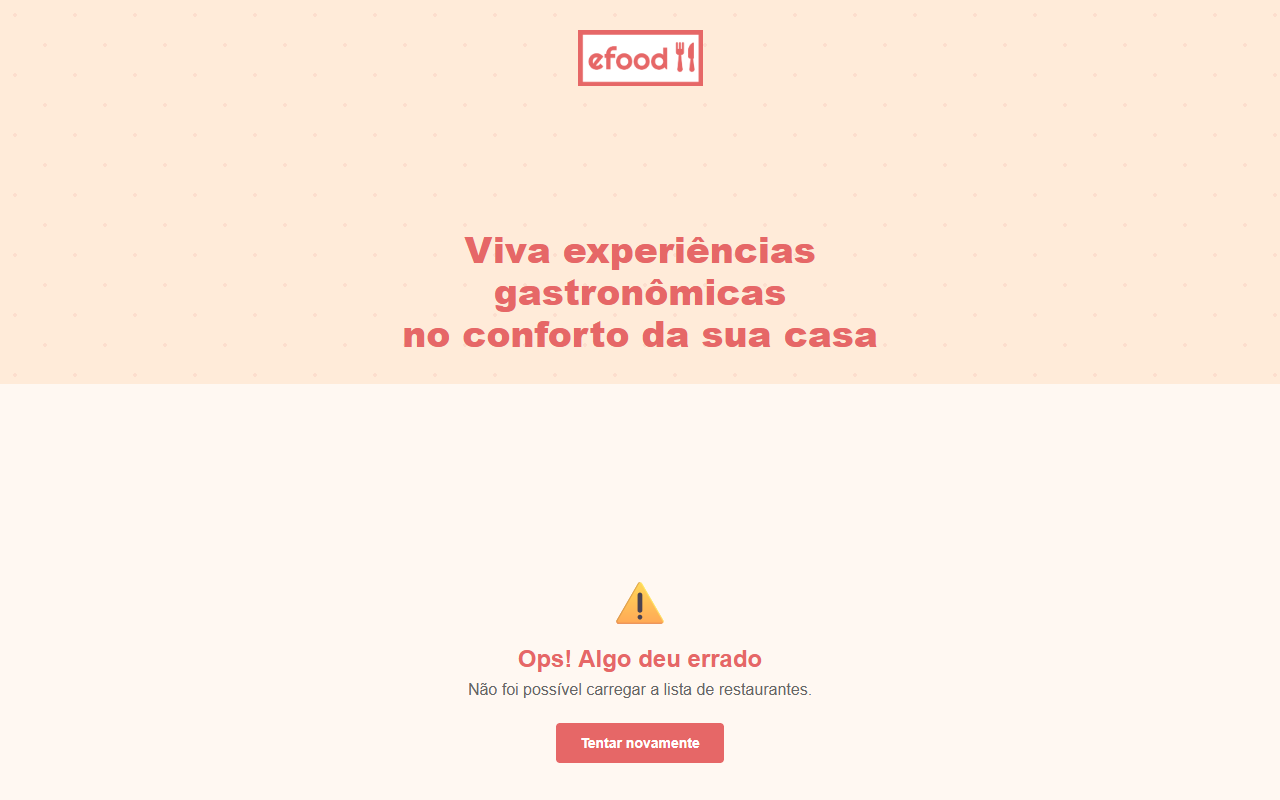
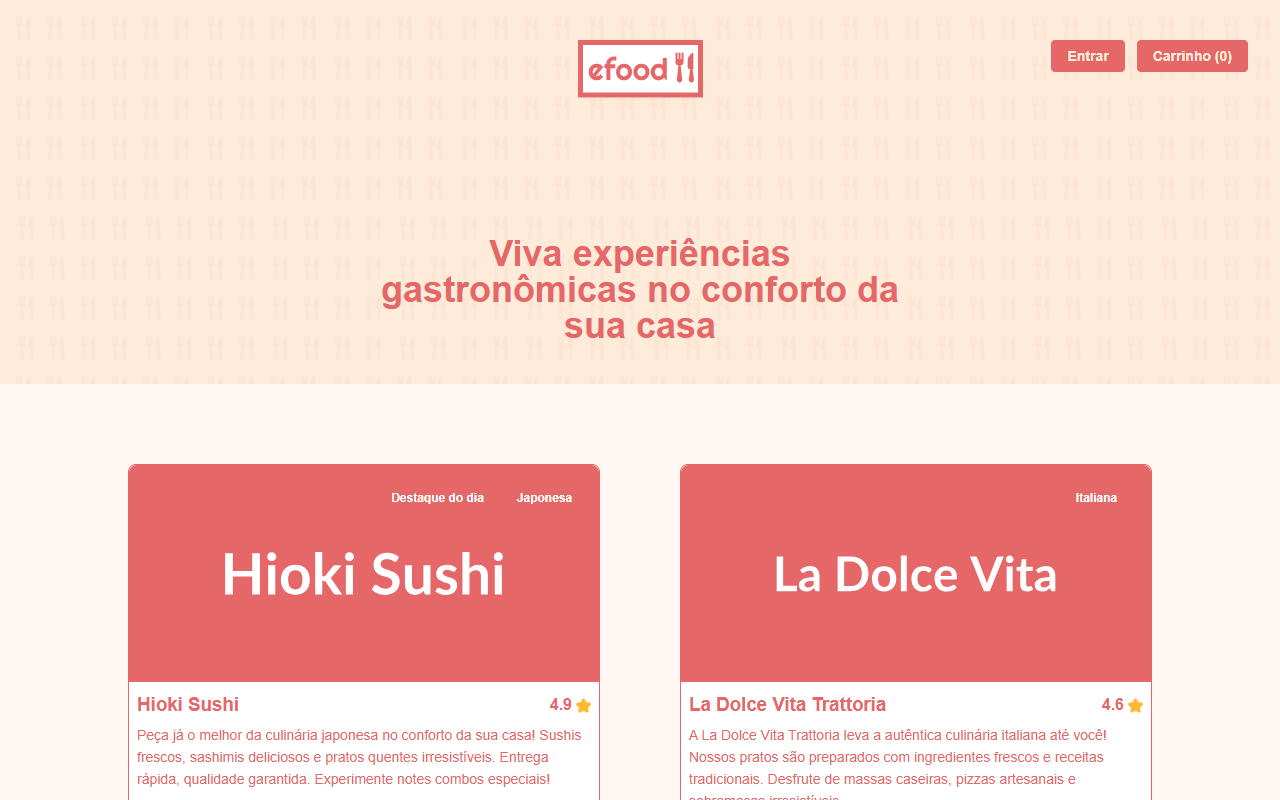
rev branchs, README.md e producao

diff --git a/scripts/capture-screenshots.js b/scripts/capture-screenshots.js
@@ -1,60 +1,59 @@
-const puppeteer = require("puppeteer");
-const path = require("path");
+/* eslint-disable @typescript-eslint/no-var-requires, @typescript-eslint/no-empty-function */
+const puppeteer = require('puppeteer')
+const path = require('path')
 
-const LIVE_URL = "https://efood-parte-2.vercel.app";
-const OUTPUT_DIR = path.join(__dirname, "..", "docs");
+const LIVE_URL = process.env.CAPTURE_URL || 'http://localhost:3000'
+const OUTPUT_DIR = path.join(__dirname, '..', 'docs')
 
 async function capture() {
   const browser = await puppeteer.launch({
-    headless: "new",
+    headless: 'new',
     defaultViewport: { width: 1280, height: 800 },
-  });
+  })
 
-  const page = await browser.newPage();
+  const page = await browser.newPage()
 
   // 1. Home — Lista de Restaurantes
-  console.log("📸 Capturando Home...");
-  await page.goto(LIVE_URL, { waitUntil: "networkidle2", timeout: 30000 });
+  console.log('📸 Capturando Home...')
+  await page.goto(LIVE_URL, { waitUntil: 'networkidle2', timeout: 30000 })
   await page.screenshot({
-    path: path.join(OUTPUT_DIR, "screenshot-home.png"),
+    path: path.join(OUTPUT_DIR, 'screenshot-home.png'),
     fullPage: false,
-  });
-  console.log("   ✅ Home salva");
+  })
+  console.log('   ✅ Home salva')
 
   // 2. Perfil — Cardápio do Restaurante (clica no primeiro restaurante)
-  console.log("📸 Capturando Perfil...");
+  console.log('📸 Capturando Perfil...')
   await page.evaluate(() => {
-    const link = document.querySelector('a[href*="perfil"]');
-    if (link) link.click();
-  });
-  await page
-    .waitForNavigation({ waitUntil: "networkidle2", timeout: 15000 })
-    .catch(() => {});
-  await new Promise((r) => setTimeout(r, 2000));
+    const link = document.querySelector('a[href*="perfil"]')
+    if (link) link.click()
+  })
+  await page.waitForNavigation({ waitUntil: 'networkidle2', timeout: 15000 }).catch(() => {})
+  await new Promise((r) => setTimeout(r, 2000))
   await page.screenshot({
-    path: path.join(OUTPUT_DIR, "screenshot-perfil.png"),
+    path: path.join(OUTPUT_DIR, 'screenshot-perfil.png'),
     fullPage: false,
-  });
-  console.log("   ✅ Perfil salva");
+  })
+  console.log('   ✅ Perfil salva')
 
   // 3. Modal — Detalhe do produto (clica no primeiro botão "Adicionar ao carrinho")
-  console.log("📸 Capturando Modal do Produto...");
+  console.log('📸 Capturando Modal do Produto...')
   await page.evaluate(() => {
-    const btn = document.querySelector("button");
-    if (btn) btn.click();
-  });
-  await new Promise((r) => setTimeout(r, 1500));
+    const btn = document.querySelector('button')
+    if (btn) btn.click()
+  })
+  await new Promise((r) => setTimeout(r, 1500))
   await page.screenshot({
-    path: path.join(OUTPUT_DIR, "screenshot-checkout.png"),
+    path: path.join(OUTPUT_DIR, 'screenshot-checkout.png'),
     fullPage: false,
-  });
-  console.log("   ✅ Modal/Checkout salva");
+  })
+  console.log('   ✅ Modal/Checkout salva')
 
-  await browser.close();
-  console.log("\n🎉 Screenshots salvas em /docs/");
+  await browser.close()
+  console.log('\n🎉 Screenshots salvas em /docs/')
 }
 
 capture().catch((err) => {
-  console.error("Erro:", err.message);
-  process.exit(1);
-});
+  console.error('Erro:', err.message)
+  process.exit(1)
+})

diff --git a/src/services/supabaseData.ts b/src/services/supabaseData.ts
@@ -2,7 +2,7 @@
 import { supabase } from './supabase'
 import { mockRestaurants } from './mockData'
 
-export const getRestaurantById = async (id: number) => {
+export const getRestaurantById = async (id: number): Promise<SupabaseRestaurant> => {
   try {
     const { data, error } = await supabase
       .from('restaurants')
@@ -59,7 +59,7 @@ export const getRestaurants = async (): Promise<SupabaseRestaurant[]> => {
 
 // ==================== FAVORITOS ====================
 
-export const getFavorites = async (userId: string) => {
+export const getFavorites = async (userId: string): Promise<number[]> => {
   const { data, error } = await supabase
     .from('favorites')
     .select('restaurant_id')
@@ -69,7 +69,7 @@ export const getFavorites = async (userId: string) => {
   return data.map(f => f.restaurant_id)
 }
 
-export const toggleFavorite = async (userId: string, restaurantId: number) => {
+export const toggleFavorite = async (userId: string, restaurantId: number): Promise<boolean> => {
   const { data: existing } = await supabase
     .from('favorites')
     .select('id')
@@ -116,7 +116,7 @@ export const addReview = async (
   restaurantId: number,
   rating: number,
   comment: string
-) => {
+): Promise<Review> => {
   const { data, error } = await supabase
     .from('reviews')
     .insert({
@@ -163,7 +163,7 @@ export const saveOrder = async (
   items: { nome: string; quantidade: number; preco: number }[],
   total: number,
   deliveryAddress: string
-) => {
+): Promise<void> => {
   const { error } = await supabase
     .from('order_history')
     .insert({
@@ -179,22 +179,22 @@ export const saveOrder = async (
 
 // ==================== ADMIN ====================
 
-export const deleteRestaurant = async (id: number) => {
+export const deleteRestaurant = async (id: number): Promise<void> => {
   const { error } = await supabase.from('restaurants').delete().eq('id', id)
   if (error) throw error
 }
 
-export const insertRestaurant = async (data: Partial<SupabaseRestaurant>) => {
+export const insertRestaurant = async (data: Partial<SupabaseRestaurant>): Promise<void> => {
   const { error } = await supabase.from('restaurants').insert(data)
   if (error) throw error
 }
 
-export const updateRestaurant = async (id: number, data: Partial<SupabaseRestaurant>) => {
+export const updateRestaurant = async (id: number, data: Partial<SupabaseRestaurant>): Promise<void> => {
   const { error } = await supabase.from('restaurants').update(data).eq('id', id)
   if (error) throw error
 }
 
-export const updateCardapio = async (restaurantId: number, cardapio: CardapioItem[]) => {
+export const updateCardapio = async (restaurantId: number, cardapio: CardapioItem[]): Promise<void> => {
   const { error } = await supabase.from('restaurants').update({ cardapio }).eq('id', restaurantId)
   if (error) throw error
 }

diff --git a/src/pages/Admin/RestaurantForm.tsx b/src/pages/Admin/RestaurantForm.tsx
@@ -17,7 +17,7 @@ type RestaurantFormProps = {
   onCancel?: () => void
 }
 
-export default function RestaurantForm({ onSave, initialData, onCancel }: RestaurantFormProps) {
+export default function RestaurantForm({ onSave, initialData, onCancel }: RestaurantFormProps): React.JSX.Element {
   const [form, setForm] = useState<RestaurantFormData>(
     initialData || {
       titulo: '',

diff --git a/src/pages/Home/index.tsx b/src/pages/Home/index.tsx
@@ -30,7 +30,7 @@ export type Restaurants = {
   cardapio: CardapioItem[]
 }
 
-const Home = () => {
+const Home = (): React.JSX.Element => {
   const [restaurants, setRestaurants] = useState<SupabaseRestaurant[] | null>(null)
   const [loading, setLoading] = useState(true)
   const [error, setError] = useState<string | null>(null)

diff --git a/src/components/ReviewList/index.tsx b/src/components/ReviewList/index.tsx
@@ -108,7 +108,7 @@ type Props = {
   restaurantId: number
 }
 
-const ReviewList = ({ restaurantId }: Props) => {
+const ReviewList = ({ restaurantId }: Props): React.JSX.Element => {
   const { user } = useAuth()
   const [reviews, setReviews] = useState<Review[]>([])
   const [rating, setRating] = useState(5)

diff --git a/src/components/Checkout/index.tsx b/src/components/Checkout/index.tsx
@@ -39,7 +39,7 @@ type PagamentoFormData = {
   dueYear: string
 }
 
-const Checkout = () => {
+const Checkout = (): React.JSX.Element => {
   const navigate = useNavigate()
   const { isPayment, items } = useSelector((state: RootState) => state.cart)
   const dispatch = useDispatch()
